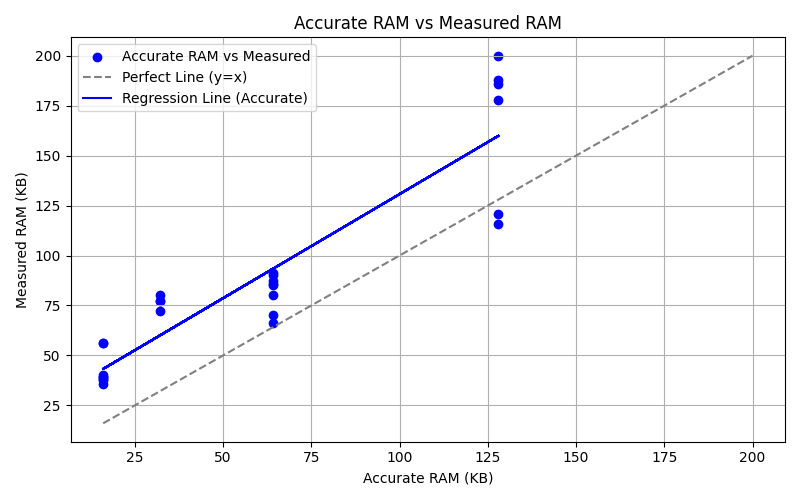
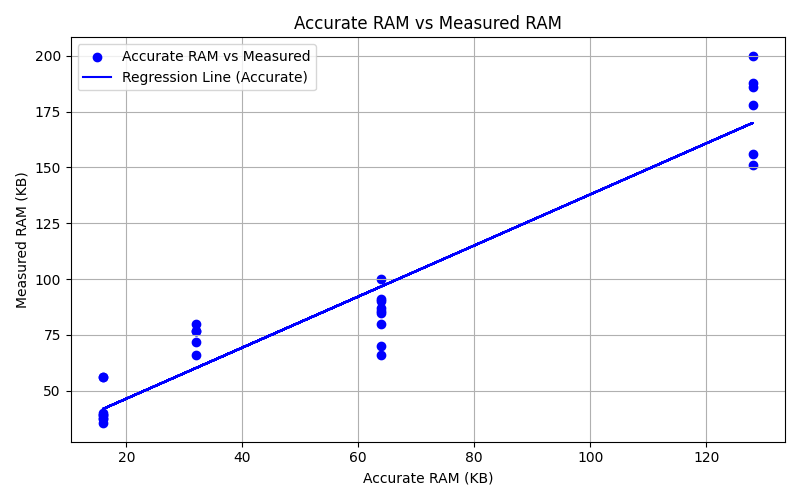
Minor HPC Work

diff --git a/utils/EstimationModels/LinearRegressionModelFlash.py b/utils/EstimationModels/LinearRegressionModelFlash.py
@@ -70,8 +70,8 @@ def save_ram_model():
     plt.scatter(df[ACCURATE_COL], y, color='blue', label="Accurate RAM vs Measured")
 
     # Perfect y=x line
-    line_range = np.linspace(min(df[ACCURATE_COL].min(), y.min()), max(df[ACCURATE_COL].max(), y.max()), 100)
-    plt.plot(line_range, line_range, color='grey', linestyle='--', label="Perfect Line (y=x)")
+    #line_range = np.linspace(min(df[ACCURATE_COL].min(), y.min()), max(df[ACCURATE_COL].max(), y.max()), 100)
+    #plt.plot(line_range, line_range, color='grey', linestyle='--', label="Perfect Line (y=x)")
 
     # Linear Regression Line (Accurate RAM)
     plt.plot(df[ACCURATE_COL], model.predict(X_accurate), color='blue', linestyle='-', label="Regression Line (Accurate)")
@@ -141,7 +141,7 @@ def save_inference_time_model():
 
 if __name__ == "__main__":
     parser = argparse.ArgumentParser(description="Train Flash or RAM regression model.")
-    parser.add_argument("--memory_type", default="time", choices=["flash", "ram", "time"], help="Memory type to process")
+    parser.add_argument("--memory_type", default="ram", choices=["flash", "ram", "time"], help="Memory type to process")
     args = parser.parse_args()
 
     if args.memory_type.lower() == "flash":
